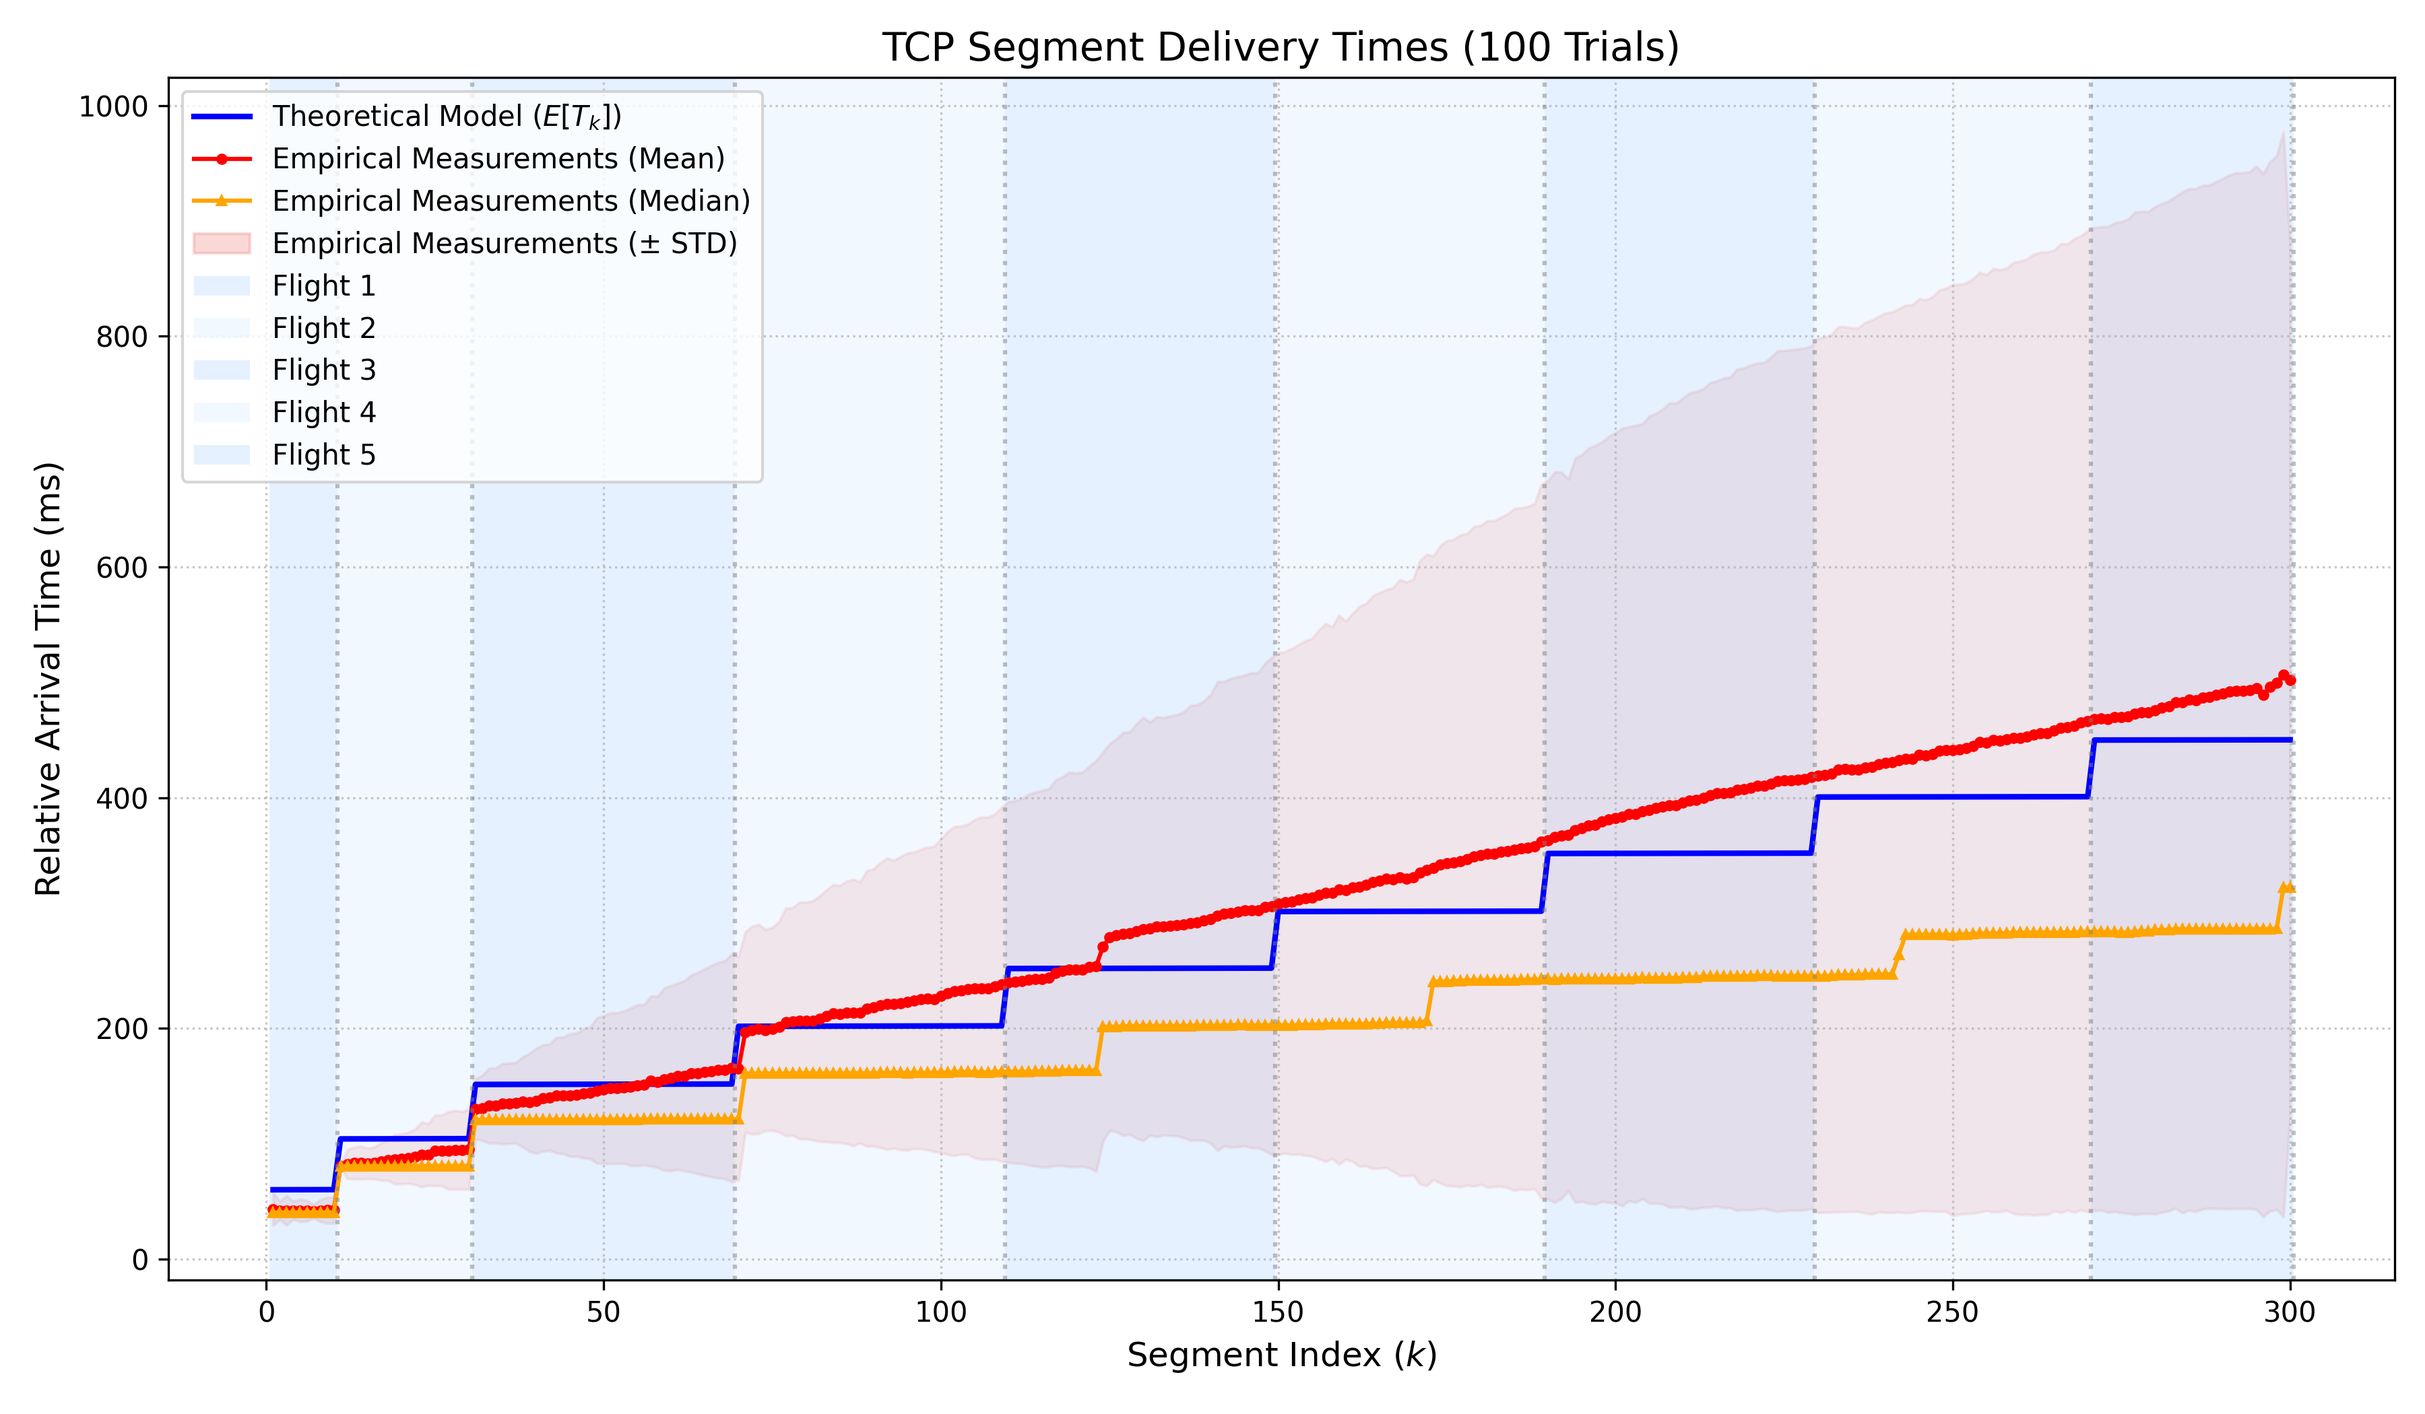
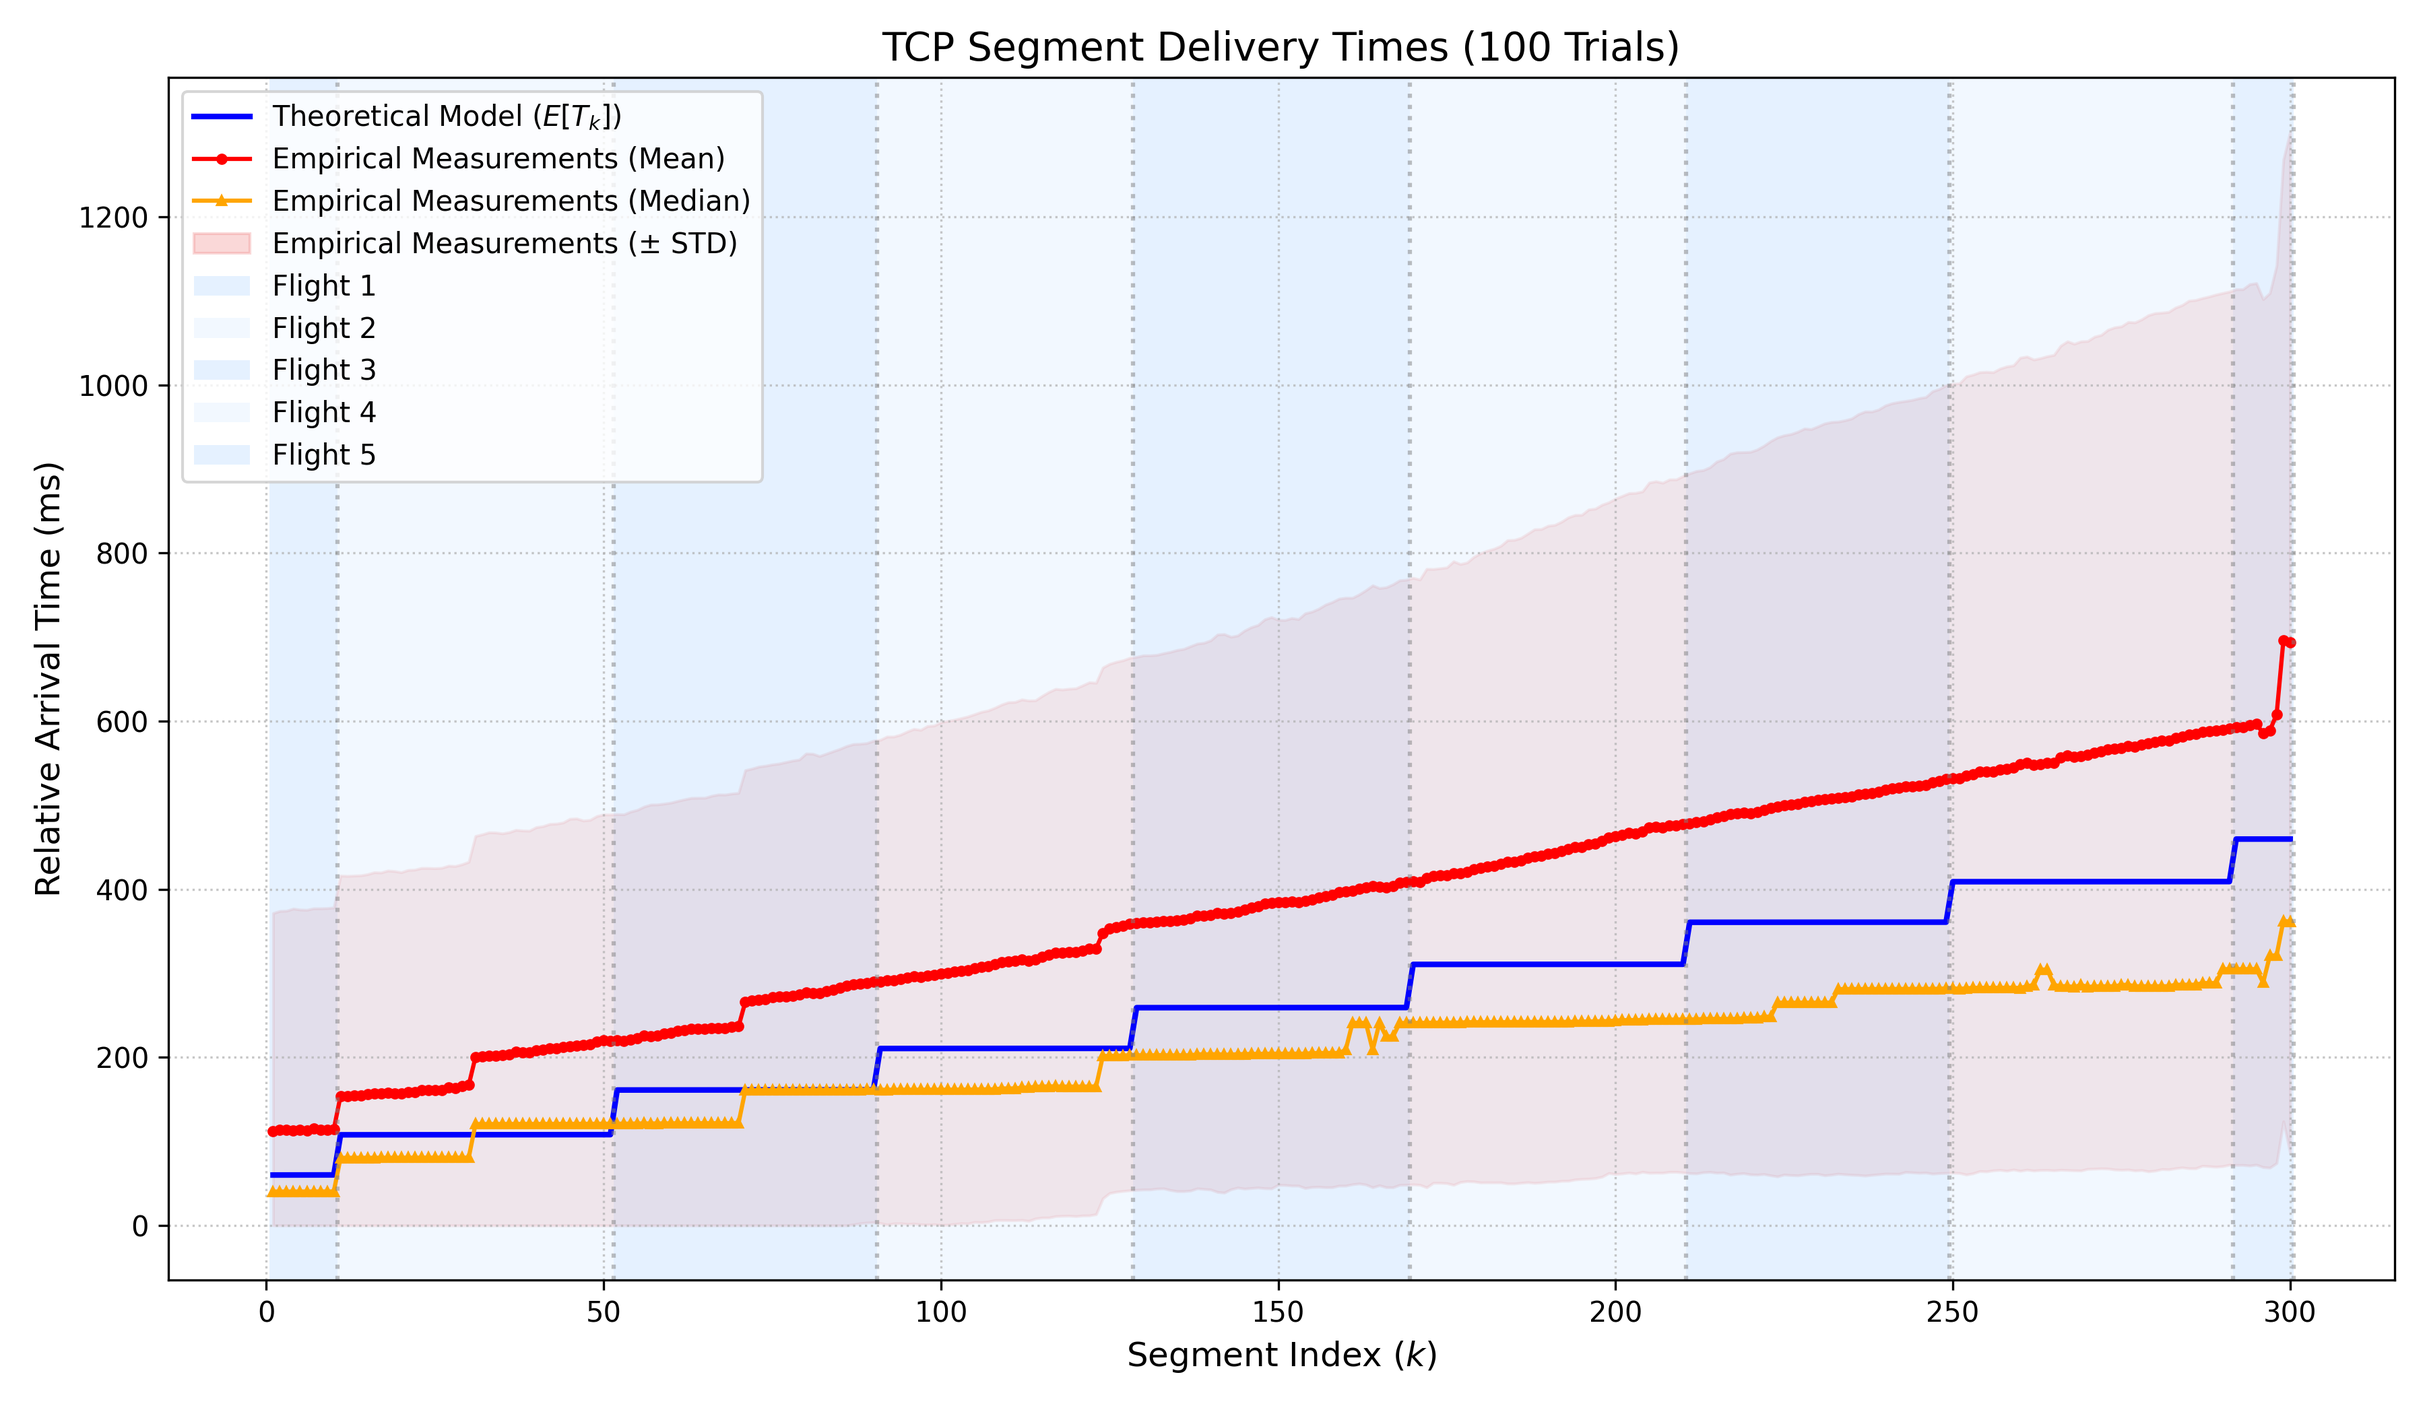
adds bidirectional loss

diff --git a/tcp-model/tcp_analytical_model.py b/tcp-model/tcp_analytical_model.py
@@ -1,7 +1,7 @@
 import numpy as np
 
 # ==============================================================================
-# TCP Analytical Model over a 4-State Gilbert-Elliott Channel
+# TCP Analytical Model over a Bidirectional 4-State Gilbert-Elliott Channel
 # ==============================================================================
 #
 # Computes E[T_k]: expected arrival time of the k-th TCP data segment at the
@@ -17,13 +17,13 @@ import numpy as np
 #   - Fast Retransmit / Fast Recovery via SACK
 #   - Retransmission Timeout (RTO) on complete flight loss
 #
-# Channel: 4-state Gilbert-Elliott Markov chain
+# Channel: Bidirectional 4-state Gilbert-Elliott Markov chain
 #   State 0: Good           — packet delivered
 #   State 1: Gap in burst   — packet delivered
 #   State 2: Burst loss     — packet DROPPED
 #   State 3: Isolated loss  — packet DROPPED
 #
-# Loss is asymmetric: only client→server is lossy; ACKs are lossless.
+# Loss is symmetric: applied in both the forward (data) and reverse (ACK) paths.
 # ==============================================================================
 
 # ─────────────────────── Channel Parameters ───────────────────────
@@ -34,14 +34,23 @@ p32 = 0.40    # Burst loss → Gap
 p23 = 0.30    # Gap → Burst loss
 p14 = 0.002   # Good → Isolated loss
 
-P = np.array([
+# Base 4-state Markov transition matrix for a single path direction
+P_base = np.array([
     [1 - p13 - p14, 0.0,           p13,           p14],    # State 0: Good
     [p31,           1 - p23 - p31, p23,           0.0],    # State 1: Gap
     [p31,           p32,           1 - p31 - p32, 0.0],    # State 2: Burst
     [1.0,           0.0,           0.0,           0.0],    # State 3: Isolated
 ])
 
-L = np.diag([0.0, 0.0, 1.0, 1.0])   # Loss indicator per state
+L_base = np.array([0.0, 0.0, 1.0, 1.0])   # Loss indicator vector per single path state
+
+# Construct the joint 16-state Kronecker product environment representing (Forward, Reverse) states
+P = np.kron(P_base, P_base)
+
+# Loss matrices mapping independent path interactions
+# Joint state space index mapped as: (fwd_state * 4) + rev_state
+L_fwd = np.kron(L_base, np.ones(4))
+L_rev = np.kron(np.ones(4), L_base)
 
 # ─────────────────────── Network Parameters ───────────────────────
 
@@ -61,20 +70,26 @@ RACK_FRAC = 0.25    # RACK reordering window ≈ RTT / 4
 
 # ─────────────────────── Derived Quantities ───────────────────────
 
-_N    = 4
-_loss = np.diag(L)                        # [0, 0, 1, 1]
+_N    = 16
 
-# Stationary distribution of the Markov chain
-_vals, _vecs = np.linalg.eig(P.T)
-_i = np.argmin(np.abs(_vals - 1.0))
-pi_stat = np.real(_vecs[:, _i])
-pi_stat = pi_stat / pi_stat.sum()
+# Compute stationary distributions for single path to find baseline roots
+_vals_b, _vecs_b = np.linalg.eig(P_base.T)
+_i_b = np.argmin(np.abs(_vals_b - 1.0))
+pi_stat_base = np.real(_vecs_b[:, _i_b])
+pi_stat_base = pi_stat_base / pi_stat_base.sum()
 
-# Per-packet conditional transition matrices
-M_s = np.diag(1 - _loss) @ P             # Packet delivered
-M_l = np.diag(_loss) @ P                 # Packet lost
+# The stationary distribution of the joint 16-state matrix
+pi_stat = np.kron(pi_stat_base, pi_stat_base)
 
-p_loss_stat = float(pi_stat @ _loss)      # Stationary loss rate
+# Step execution operators tracking delivery over both independent paths
+# For data to succeed: forward must deliver. For ACK to succeed: reverse must deliver.
+M_fwd_ok = np.diag(1.0 - L_fwd) @ P
+M_fwd_drop = np.diag(L_fwd) @ P
+
+M_rev_ok = np.diag(1.0 - L_rev) @ P
+M_rev_drop = np.diag(L_rev) @ P
+
+p_loss_stat = float(pi_stat_base @ L_base)      # Stationary single-path loss rate
 
 # ==============================================================================
 #  Channel Analysis
@@ -82,30 +97,50 @@ p_loss_stat = float(pi_stat @ _loss)      # Stationary loss rate
 
 def _flight_stats(W, pi):
     """
-    Compute loss statistics for a flight of W packets through the GE channel
-    starting from state distribution pi.
+    Compute loss statistics for a flight of W packets through the bidirectional
+    GE channel starting from the 16-state joint distribution pi.
 
-    Simultaneously tracks:
-      v_s : all-success path   → pi · M_s^W   (gives P(0 losses))
-      v_l : all-loss path      → pi · M_l^W   (gives P(W losses))
-      v   : unconditional path → pi · P^W     (gives post-flight state)
-      el  : E[losses]          → Σ (pi · P^i) · loss_vec
-
-    Returns (p0, pa, el, pi_after).
+    Tracks:
+      p0 : probability that all data packets and their ACKs arrive cleanly.
+      pa : probability of complete RTO timeout. This occurs if either all data packets 
+           fail the forward path, or if all returning ACKs fail the reverse path.
+      el : expected total number of packet drop events seen on the path.
     """
-    v_s = pi.copy()
-    v_l = pi.copy()
-    v   = pi.copy()
-    el  = 0.0
+    # 1. Forward Path execution (Data Segment delivery)
+    v_fwd_all_ok = pi.copy()
+    v_fwd_all_drop = pi.copy()
+    v_after_fwd = pi.copy()
+    el_fwd = 0.0
+
     for _ in range(W):
-        el += float(v @ _loss)
-        v_s = v_s @ M_s
-        v_l = v_l @ M_l
-        v   = v @ P
-    p0 = float(np.clip(v_s.sum(), 0, 1))
-    pa = float(np.clip(v_l.sum(), 0, 1))
-    s  = v.sum()
-    return p0, pa, el, (v / s if s > 0 else pi_stat.copy())
+        el_fwd += float(v_after_fwd @ L_fwd)
+        v_fwd_all_ok = v_fwd_all_ok @ M_fwd_ok
+        v_fwd_all_drop = v_fwd_all_drop @ M_fwd_drop
+        v_after_fwd = v_after_fwd @ P
+
+    # 2. Reverse Path execution (ACK delivery tracking back)
+    v_rev_all_ok = v_fwd_all_ok.copy()
+    v_rev_all_drop = v_after_fwd.copy()  # ACKs are generated from whatever survived the forward path
+    v_after_rev = v_after_fwd.copy()
+    el_rev = 0.0
+
+    for _ in range(W):
+        el_rev += float(v_after_rev @ L_rev)
+        v_rev_all_ok = v_rev_all_ok @ M_rev_ok
+        v_rev_all_drop = v_rev_all_drop @ M_rev_drop
+        v_after_rev = v_after_rev @ P
+
+    p0 = float(np.clip(v_rev_all_ok.sum(), 0, 1))
+    
+    p_fwd_fail = float(np.clip(v_fwd_all_drop.sum(), 0, 1))
+    p_rev_fail = float(np.clip(v_rev_all_drop.sum(), 0, 1))
+    # Timeout hits if either direction encounters a complete flight block
+    pa = float(np.clip(p_fwd_fail + (1.0 - p_fwd_fail) * p_rev_fail, 0, 1))
+    
+    el = el_fwd + el_rev
+    s = v_after_rev.sum()
+    
+    return p0, pa, el, (v_after_rev / s if s > 0 else pi_stat.copy())
 
 # ==============================================================================
 #  3-Way Handshake
@@ -113,73 +148,9 @@ def _flight_stats(W, pi):
 
 def _handshake():
     """
-    Expected handshake time and channel state after completion.
-
-    Only the SYN (client→server) traverses the lossy channel.  SYN-ACK
-    (server→client) is lossless.  The ACK (3rd leg) may be lost but the
-    first data segment implicitly ACKs the SYN-ACK, so ACK loss adds no
-    delay.  If a SYN is lost the client retransmits after exponential
-    backoff: 1 s, 2 s, 4 s, …
-
-    We use the stationary loss probability for all SYN attempts because
-    the multi-second RTO gaps between attempts decorrelate the channel
-    in any realistic deployment.  (In netem the chain doesn't advance
-    between packets, but the expected-value contribution from retries is
-    dominated by the massive RTO cost, not the conditional loss rate.)
+    Assume the 3-way handshake completed perfectly on the very first try.
+    Returns the baseline path propagation delays and synchronized end states.
     """
-    
-    """
-    Below is the old code, and it is correct, except the cost of single lost SYN is extremely
-    high and will skew greatly from the practical value because if the first SYN is lost,
-    The tcp experiment starts when the first SYN is transmitted,
-                                                                            -Dylan
-    pi  = pi_stat.copy()
-    E_T = 0.0
-    pw  = 1.0            # probability still waiting
-    rto = RTO_INIT
-    mix = np.zeros(_N)   # weighted end-state mixture
-
-    for _ in range(8):
-        pl = float(pi @ _loss)
-        ps = 1.0 - pl
-        # Success: pay 1 RTT
-        E_T += pw * ps * RTT
-        if ps > 0:
-            pi_s  = (pi * (1 - _loss)) @ P
-            pi_s /= pi_s.sum()
-            mix  += pw * ps * pi_s
-        if pl < 1e-15:
-            break
-        # Failure: pay RTO, advance channel
-        E_T += pw * pl * rto
-        pi_f = (pi * _loss) @ P
-        pi   = pi_f / pi_f.sum() if pi_f.sum() > 1e-15 else pi_stat.copy()
-        pw  *= pl
-        rto *= 2
-
-    pi_end = mix / mix.sum() if mix.sum() > 1e-15 else pi_stat.copy()
-    pi_end = pi_end @ P          # advance 1 pkt for the ACK (3rd leg)
-    """
-
-    """
-    p = p_loss_stat
-
-    # E[T_handshake] = RTT  +  Σ_{n=1}^∞ p^n · RTO(n)
-    # where RTO(n) = RTO_INIT · 2^{n-1}  (exponential backoff)
-    # = RTT + p·RTO_INIT · Σ_{k=0}^∞ (2p)^k = RTT + p·RTO_INIT / (1 − 2p)
-    if 2 * p < 1:
-        E_T = RTT + p * RTO_INIT / (1 - 2 * p)
-    else:
-        # Shouldn't happen for reasonable loss rates; cap at 5 retries
-        E_T = RTT + p * RTO_INIT * 5
-
-    # Channel state after handshake: SYN (1 pkt) + ACK (1 pkt) = 2 pkts
-    # through the channel from stationary.
-    pi_end = pi_stat @ P @ P
-    return E_T, pi_end
-    """
-
-    # Assume the 3-way handshake completed perfectly on the very first try
     return RTT, pi_stat @ P @ P
 
 # ==============================================================================
@@ -363,7 +334,8 @@ def expected_time_k(k):
 
 
 def get_tc_netem_params(P_mat, L_mat):
-    """Convert the transition matrix to tc-netem loss-state percentages."""
-    return (P_mat[0, 2] * 100, P_mat[2, 0] * 100,
-            P_mat[2, 1] * 100, P_mat[1, 2] * 100,
-            P_mat[0, 3] * 100)
+    """Convert the single-path transition matrix to tc-netem loss-state percentages."""
+    # Netem setup pulls from baseline 4-state parameters to initialize individual interfaces
+    return (P_base[0, 2] * 100, P_base[2, 0] * 100,
+            P_base[2, 1] * 100, P_base[1, 2] * 100,
+            P_base[0, 3] * 100)

diff --git a/tcp-model/tcp_validation.py b/tcp-model/tcp_validation.py
@@ -16,7 +16,7 @@ except ImportError:
     print("Scapy is required. Please install it using: pip install scapy")
     sys.exit(1)
 
-from tcp_analytical_model import P, L, O, expected_time_k, get_tc_netem_params
+from tcp_analytical_model import P_base, L_base, O, expected_time_k, get_tc_netem_params
 
 # ==============================================================================
 # 2. Execution Environment & Ground Truth Setup
@@ -55,15 +55,15 @@ def setup_environment():
     run_cmd("sudo ip netns exec ns_client ip route add default via 10.0.0.2")
     run_cmd("sudo ip netns exec ns_server ip route add default via 10.0.0.1")
     
-    p13, p31, p32, p23, p14 = get_tc_netem_params(P, L)
+    p13, p31, p32, p23, p14 = get_tc_netem_params(P_base, L_base)
     
-    # Apply delay to both sides for RTT. Apply loss strictly to veth_c (client) 
-    # to drop DATA segments, not ACKs.
+    # Apply delay to both sides for RTT. Apply the exact same 4-state Markov loss model to BOTH sides.
+    # This simulates independent, symmetric Gilbert-Elliott drop rates for both directions (DATA segments and ACKs).
     # Apply Netem emulation: 20ms one-way delay, 10 Mbps bandwidth, and bursty loss
     # The 10Mbit rate enforces the exact serialization delay (1.211 ms per 1514B packet) modeled mathematically!
     O_ms = O * 1000
     run_cmd(f"sudo ip netns exec ns_client tc qdisc add dev veth_c root netem delay {O_ms}ms rate 1gbit loss state {p13:.2f}% {p31:.2f}% {p32:.2f}% {p23:.2f}% {p14:.2f}%")
-    run_cmd(f"sudo ip netns exec ns_server tc qdisc add dev veth_s root netem delay {O_ms}ms rate 1gbit")
+    run_cmd(f"sudo ip netns exec ns_server tc qdisc add dev veth_s root netem delay {O_ms}ms rate 1gbit loss state {p13:.2f}% {p31:.2f}% {p32:.2f}% {p23:.2f}% {p14:.2f}%")
 
 def teardown_environment():
     print("=== Tearing down network namespaces ===")
@@ -126,7 +126,7 @@ if __name__ == "__main__":
             
     pcap_file = "capture.pcap"
     client_pcap_file = "client_capture.pcap"
-    M_bytes = 50 * 1448
+    M_bytes = 300 * 1448
     num_trials = 100
     
     try:
@@ -301,7 +301,12 @@ if __name__ == "__main__":
         plt.plot(k_vals, theoretical_times, label='Theoretical Model ($E[T_k]$)', color='blue', linewidth=2)
         plt.plot(k_vals, empirical_mean, '-o', color='red', markersize=3, label='Empirical Measurements (Mean)')
         plt.plot(k_vals, empirical_median, '-^', color='orange', markersize=3, label='Empirical Measurements (Median)')
-        plt.fill_between(k_vals, empirical_mean - empirical_std, empirical_mean + empirical_std, color='lightcoral', alpha=0.3, label='Empirical Measurements (± STD)')
+        
+        # Clip the lower standard deviation bound at 0 ms
+        plt.fill_between(k_vals, 
+                 np.maximum(0, empirical_mean - empirical_std), 
+                 empirical_mean + empirical_std, 
+                 color='lightcoral', alpha=0.3, label='Empirical Measurements (± STD)')
         
         colors = ['#e6f2ff', '#cce5ff']
         for f_k, k_list in flights.items():
